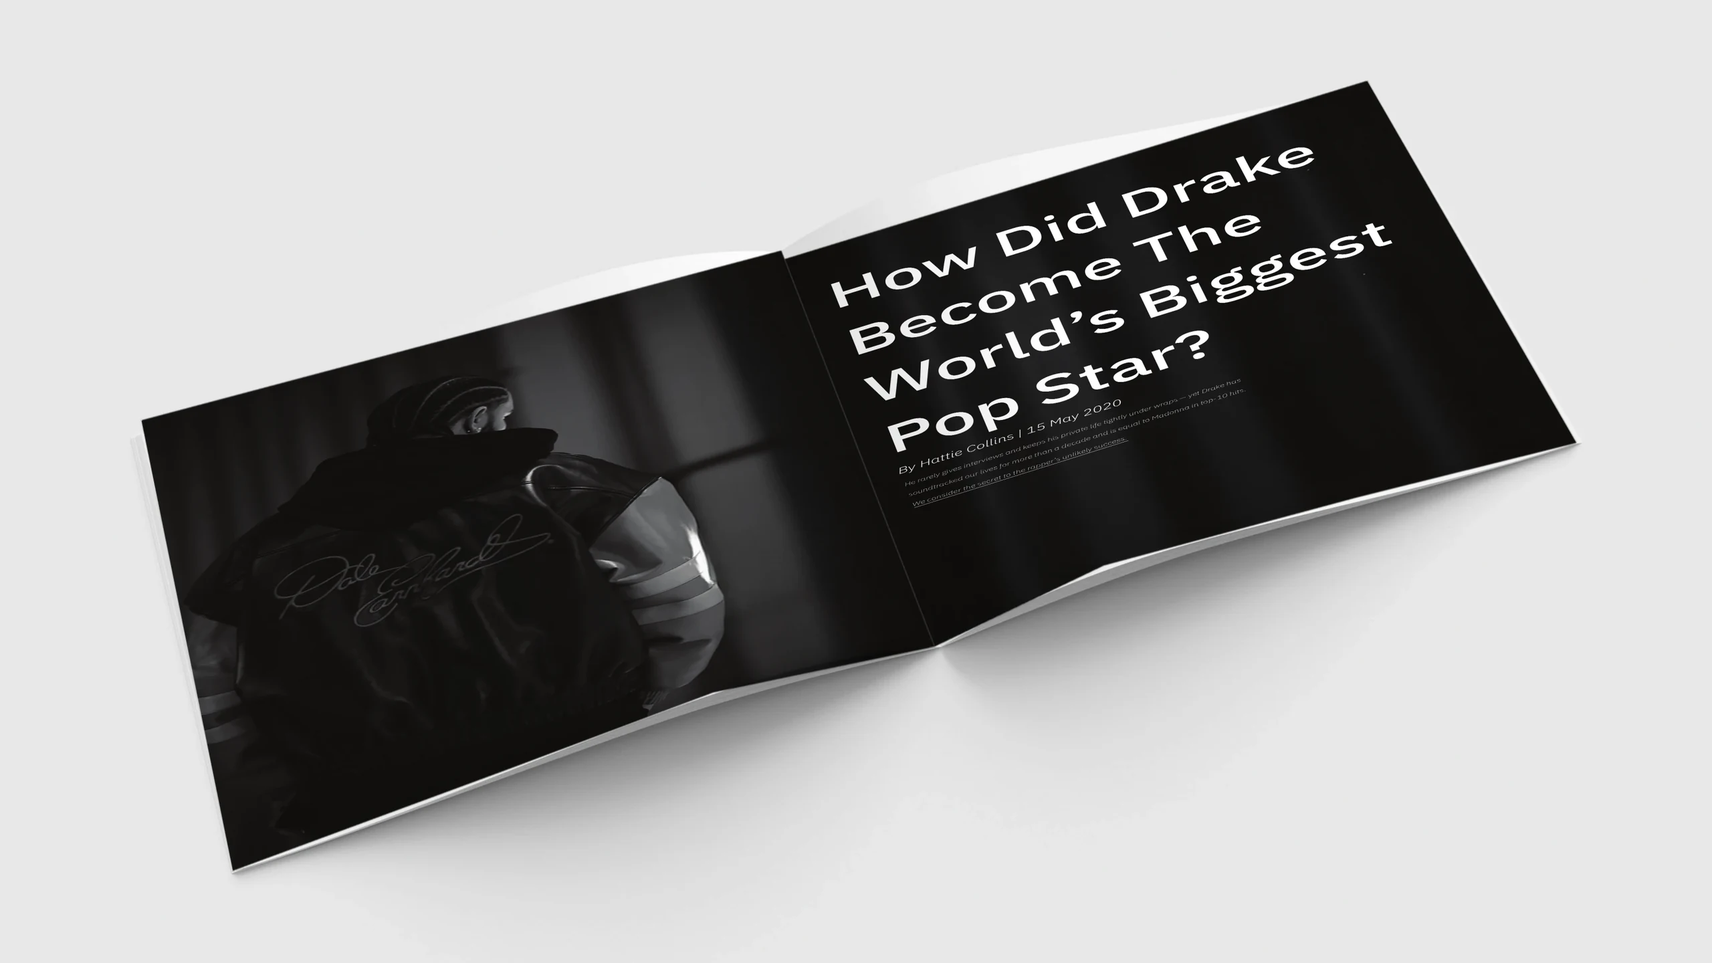
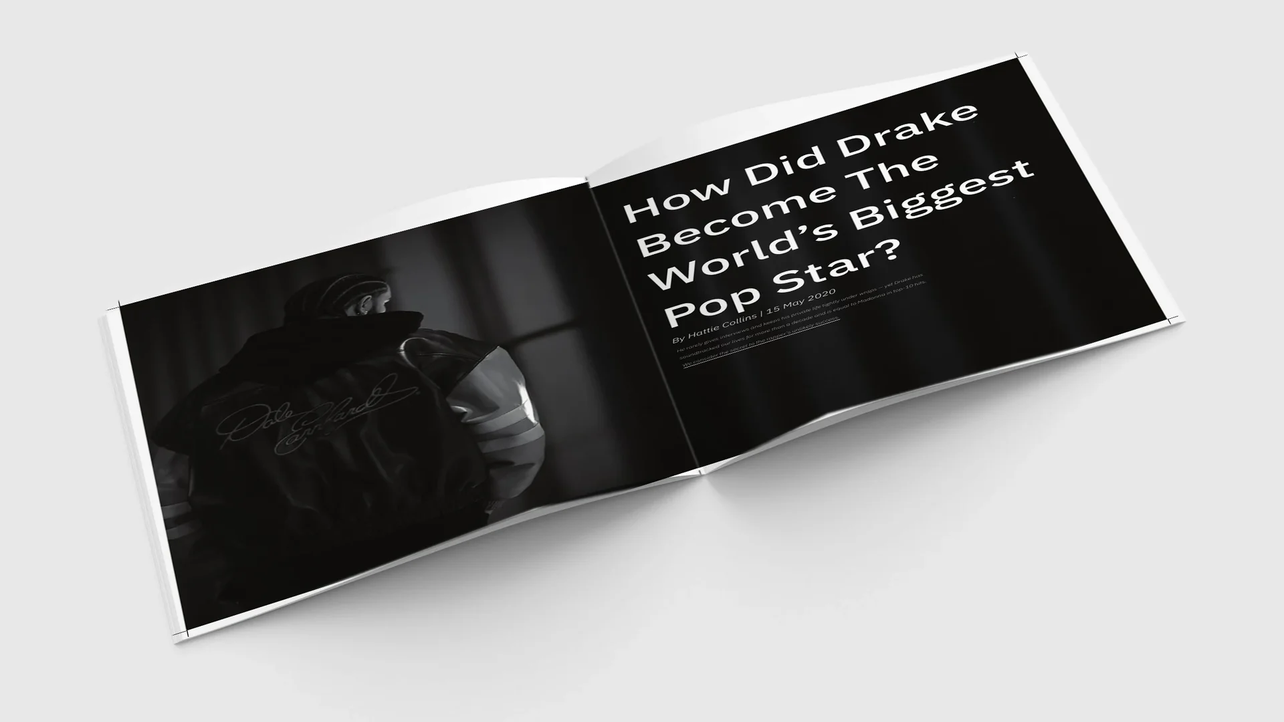
Revert "Rebuild real mockups at full res from the original files: true proportions, vinyl gets cover + picture disc, light flat side, drop low-res and code-drawn mockups"
This reverts commit f2d31cbca5edbf2e0125dacdb4d016c4d0a19e43.

diff --git a/index.html b/index.html
@@ -31,7 +31,7 @@
     <link href="https://fonts.googleapis.com/css2?family=Inter:wght@400;500;600&family=JetBrains+Mono&family=Poppins:wght@300;500;600&display=swap" rel="stylesheet">
 
     <!-- my stylesheet -->
-    <link rel="stylesheet" href="css/style.css?v=c1d5d587">
+    <link rel="stylesheet" href="css/style.css?v=1bd2935e">
     <script>
         try {
             var r = new URLSearchParams(location.search).get("reveal");
@@ -197,7 +197,7 @@
                         </div>
                     </a>
                     <a class="bento-card span-5 reveal" href="projects/boncafe.html" data-case data-cat="ux">
-                        <div class="thumb"><img src="images/boncafe/cover.jpg" alt="Three Boncafe app screens" loading="lazy"></div>
+                        <div class="thumb"><img src="images/real/boncafe-desk.webp" alt="Boncafe service booking screen on a phone" loading="lazy"></div>
                         <div class="body">
                             <div class="top"><h3>Boncaf&eacute;</h3></div>
                             <span class="label">Mobile app &middot; UI design</span>
@@ -335,12 +335,12 @@
                 </div>
 
                 <div class="gallery prints">
-                <button class="tile" data-cat="print" data-full="images/real/otuka-album.webp, images/real/otuka-poster.webp, images/real/otuka-vinyl.webp, images/real/otuka-vinyl-flat.webp, images/real/otuka-spotify.webp" data-desc="Album packaging where the type becomes the image, across four formats.">
-                    <div class="media"><img src="images/real/otuka-album.webp" alt="Open Your Eyes, Wrapped in Type" loading="lazy"><span class="badge">4 FORMATS</span></div>
+                <button class="tile" data-cat="print" data-full="images/real/otuka-album.webp, images/real/otuka-poster.webp, images/real/otuka-vinyl.webp, images/otuka/vinyl-flat-mockup.webp, images/real/otuka-spotify.webp" data-desc="Album packaging where the type becomes the image, across four formats.">
+                    <div class="media"><img src="images/otuka/album-art-mockup.webp" alt="Open Your Eyes, Wrapped in Type" loading="lazy"><span class="badge">4 FORMATS</span></div>
                     <div class="cap"><h3>Open Your Eyes, Wrapped in Type</h3><p>Album packaging where the type becomes the image, across four formats.</p></div>
                 </button>
-                <button class="tile" data-cat="print" data-full="images/real/drake-1.webp, images/real/drake-2.webp, images/real/drake-cover.webp" data-desc="Magazine feature and tabloid layout built in InDesign.">
-                    <div class="media"><img src="images/real/drake-cover.webp" alt="The Drake Issue" loading="lazy"></div>
+                <button class="tile" data-cat="print" data-full="images/real/drake-1.webp, images/real/drake-2.webp, images/gallery/drake-3-mockup.webp" data-desc="Magazine feature and tabloid layout built in InDesign.">
+                    <div class="media"><img src="images/gallery/drake-3-mockup.webp" alt="The Drake Issue" loading="lazy"></div>
                     <div class="cap"><h3>The Drake Issue</h3><p>Magazine feature and tabloid layout built in InDesign.</p></div>
                 </button>
                 <button class="tile" data-cat="print" data-full="images/aria/b-guidlines.jpg, images/aria/b-guidlines-2.jpg, images/aria/content-book.jpg, images/aria/logo-color-sys.jpg" data-desc="The printed rulebook for a team-built outdoor apparel identity.">
@@ -355,22 +355,22 @@
                     <div class="media"><img src="images/gallery/wendigo-thumb.jpg" alt="Wendigo" loading="lazy"></div>
                     <div class="cap"><h3>Wendigo</h3><p>A Photoshop composite: a hunter and two creatures in a forest at night, with the light, rain and colour matched across every piece.</p><span class="note">Photoshop composite</span></div>
                 </button>
-                <button class="tile" data-cat="print" data-full="images/real/nivea.webp, images/real/nivea-flat.webp" data-desc="A product ad built in Photoshop: the bottle, a splash and a light tube splitting the frame from the type.">
+                <button class="tile" data-cat="print" data-full="images/real/nivea.webp, images/gallery/nivea-mockup.webp" data-desc="A product ad built in Photoshop: the bottle, a splash and a light tube splitting the frame from the type.">
                     <div class="media"><img src="images/gallery/nivea-thumb.jpg" alt="NIVEA MEN, Power Fresh" loading="lazy"></div>
                     <div class="cap"><h3>NIVEA MEN, Power Fresh</h3><p>A product ad built in Photoshop: the bottle, a splash and a light tube splitting the frame from the type.</p><span class="note">Student concept</span></div>
                 </button>
-                <button class="tile" data-cat="print" data-full="images/real/seven-gen.webp, images/real/seven-gen-flat.webp" data-desc="Long-copy print ad: a houseplant growing out of a shipping box, built around the brand's seven-generations idea.">
-                    <div class="media"><img src="images/gallery/seven-gen.jpg" alt="Seven Generations" loading="lazy"></div>
+                <button class="tile" data-cat="print" data-full="images/real/seven-gen.webp, images/gallery/seven-gen-mockup.webp" data-desc="Long-copy print ad: a houseplant growing out of a shipping box, built around the brand's seven-generations idea.">
+                    <div class="media"><img src="images/gallery/seven-gen-mockup.webp" alt="Seven Generations" loading="lazy"></div>
                     <div class="cap"><h3>Seven Generations</h3><p>Long-copy print ad: a houseplant growing out of a shipping box, built around the brand's seven-generations idea.</p><span class="note">Student concept</span></div>
                 </button>
-                <button class="tile" data-cat="print" data-full="images/real/psa.webp, images/real/psa-flat.webp" data-desc="Public safety ad layout.">
+                <button class="tile" data-cat="print" data-full="images/real/psa.webp, images/gallery/psa-1-mockup.webp" data-desc="Public safety ad layout.">
                     <div class="media"><img src="images/gallery/psa-1.jpg" alt="One Careless Move" loading="lazy"></div>
                     <div class="cap"><h3>One Careless Move</h3><p>Public safety ad layout.</p><span class="note">Student concept</span></div>
                 </button>
                 </div>
 
                 <!-- flat file vs the same piece in a real photo (free unsplash mockups, credits in images/real/credits.txt).
-                     drag the handle, the tabs swap the piece. the flat side sits on light grey like a studio table -->
+                     drag the handle, the tabs swap the piece. the flat side follows night / day mode -->
                 <div class="in-world reveal">
                     <div class="in-world-head">
                         <p class="label">Flat file &rarr; in the world</p>
@@ -381,12 +381,15 @@
                             <button role="tab" aria-selected="false" data-scene="seven-gen">Seven Generations</button>
                             <button role="tab" aria-selected="false" data-scene="nivea">NIVEA</button>
                             <button role="tab" aria-selected="false" data-scene="psa">One Careless Move</button>
-                            <button role="tab" aria-selected="false" data-scene="eduvia-desk">Eduvia app</button>
+                            <button role="tab" aria-selected="false" data-scene="boncafe-desk">Boncaf&eacute; app</button>
                         </div>
                     </div>
                     <div class="compare scene-compare" data-folder="images/real/" aria-label="Otuka poster, flat file and at a bus stop">
                         <img class="scene-after" src="images/real/otuka-poster-wide.webp" alt="Otuka poster, flat file and at a bus stop" loading="lazy">
-                        <div class="before"><img class="scene-before" src="images/real/otuka-poster-flat.webp" alt="" loading="lazy"></div>
+                        <div class="before">
+                            <img class="m-dark" src="images/real/otuka-poster-flat-dark.webp" alt="" loading="lazy">
+                            <img class="m-light" src="images/real/otuka-poster-flat-light.webp" alt="" loading="lazy">
+                        </div>
                         <span class="compare-tag left">Flat file</span>
                         <span class="compare-tag right">In the world</span>
                         <div class="compare-handle" role="slider" tabindex="0" aria-label="Drag to compare" aria-valuemin="0" aria-valuemax="100" aria-valuenow="50"><span>&harr;</span></div>
@@ -547,7 +550,7 @@
         <p class="lb-hint"><span class="hint-mouse">drag, scroll or use the arrow keys</span><span class="hint-touch">swipe left or right for the next one</span></p>
     </div>
 
-    <script src="js/main.js?v=e37636cf"></script>
+    <script src="js/main.js?v=7d1211b8"></script>
     <script src="js/motion.js?v=e68d57a2"></script>
     <script src="js/egg.js?v=83845ed8"></script>
     <script src="js/reveal.js?v=a761e3d4"></script>

diff --git a/projects/otuka.html b/projects/otuka.html
@@ -30,7 +30,7 @@
     <link href="https://fonts.googleapis.com/css2?family=Inter:wght@400;500;600&family=JetBrains+Mono&family=Poppins:wght@300;500;600&display=swap" rel="stylesheet">
 
     <!-- my stylesheet -->
-    <link rel="stylesheet" href="../css/style.css?v=c1d5d587">
+    <link rel="stylesheet" href="../css/style.css?v=1bd2935e">
 </head>
 <body>
     <!-- Utility Bar -->
@@ -103,7 +103,7 @@
                 <figure class="reveal"><img src="../images/real/otuka-vinyl.webp" alt="Vinyl, sleeve and record" loading="lazy"><figcaption>Vinyl, sleeve and record</figcaption></figure>
             </div>
             <div class="shots ">
-                <figure class="reveal"><img src="../images/real/otuka-vinyl-flat.webp" alt="Vinyl jacket, front and back, flat" loading="lazy"><figcaption>Vinyl jacket, front and back, flat</figcaption></figure>
+                <figure class="reveal"><img src="../images/otuka/vinyl-flat-mockup.webp" alt="Vinyl jacket, front and back, flat" loading="lazy"><figcaption>Vinyl jacket, front and back, flat</figcaption></figure>
             </div>
         </section>
 
@@ -114,14 +114,20 @@
             </div>
             <div class="compare scene-compare" data-folder="../images/real/" aria-label="Otuka poster, flat file and at a bus stop">
                         <img class="scene-after" src="../images/real/otuka-poster-wide.webp" alt="Otuka poster, flat file and at a bus stop" loading="lazy">
-                        <div class="before"><img class="scene-before" src="../images/real/otuka-poster-flat.webp" alt="" loading="lazy"></div>
+                        <div class="before">
+                            <img class="m-dark" src="../images/real/otuka-poster-flat-dark.webp" alt="" loading="lazy">
+                            <img class="m-light" src="../images/real/otuka-poster-flat-light.webp" alt="" loading="lazy">
+                        </div>
                         <span class="compare-tag left">Flat file</span>
                         <span class="compare-tag right">In the world</span>
                         <div class="compare-handle" role="slider" tabindex="0" aria-label="Drag to compare" aria-valuemin="0" aria-valuemax="100" aria-valuenow="50"><span>&harr;</span></div>
                     </div>
             <div class="compare scene-compare" data-folder="../images/real/" aria-label="Otuka vinyl, flat file and in hand">
                         <img class="scene-after" src="../images/real/otuka-vinyl-wide.webp" alt="Otuka vinyl, flat file and in hand" loading="lazy">
-                        <div class="before"><img class="scene-before" src="../images/real/otuka-vinyl-flat.webp" alt="" loading="lazy"></div>
+                        <div class="before">
+                            <img class="m-dark" src="../images/real/otuka-vinyl-flat-dark.webp" alt="" loading="lazy">
+                            <img class="m-light" src="../images/real/otuka-vinyl-flat-light.webp" alt="" loading="lazy">
+                        </div>
                         <span class="compare-tag left">Flat file</span>
                         <span class="compare-tag right">In the world</span>
                         <div class="compare-handle" role="slider" tabindex="0" aria-label="Drag to compare" aria-valuemin="0" aria-valuemax="100" aria-valuenow="50"><span>&harr;</span></div>
@@ -145,7 +151,7 @@
         </div>
     </footer>
 
-    <script src="../js/main.js?v=e37636cf"></script>
+    <script src="../js/main.js?v=7d1211b8"></script>
     <script src="../js/motion.js?v=e68d57a2"></script>
 </body>
 </html>

diff --git a/more.html b/more.html
@@ -31,7 +31,7 @@
     <link href="https://fonts.googleapis.com/css2?family=Inter:wght@400;500;600&family=JetBrains+Mono&family=Poppins:wght@300;500;600&display=swap" rel="stylesheet">
 
     <!-- my stylesheet -->
-    <link rel="stylesheet" href="css/style.css?v=c1d5d587">
+    <link rel="stylesheet" href="css/style.css?v=1bd2935e">
 </head>
 <body>
     <div class="scroll-bar" aria-hidden="true"></div>
@@ -113,12 +113,12 @@
                     <div class="media"><img src="images/gallery/water-watch-1.jpg" alt="Water Watch" loading="lazy"><span class="badge">VIDEO</span></div>
                     <div class="cap"><h3>Water Watch</h3><p>App concept that helps people track and cut their water use, with a walkthrough video.</p></div>
                 </button>
-                <button class="tile" data-cat="ux" data-full="images/gallery/dairy-drop-1.jpg, images/gallery/dairy-drop-2.jpg" data-desc="Milk delivery app: speed sketches, A/B testing, lo-fi and mid-fi wireframes.">
-                    <div class="media"><img src="images/gallery/dairy-drop-1.jpg" alt="Dairy Drop" loading="lazy"></div>
+                <button class="tile" data-cat="ux" data-full="images/real/dairy-drop.webp, images/gallery/dairy-drop-1.jpg, images/gallery/dairy-drop-2.jpg" data-desc="Milk delivery app: speed sketches, A/B testing, lo-fi and mid-fi wireframes.">
+                    <div class="media"><img src="images/real/dairy-drop.webp" alt="Dairy Drop" loading="lazy"></div>
                     <div class="cap"><h3>Dairy Drop</h3><p>Milk delivery app: speed sketches, A/B testing, lo-fi and mid-fi wireframes.</p></div>
                 </button>
-                <button class="tile" data-cat="ux" data-full="images/real/eduvia-desk.webp, images/real/eduvia-stand.webp, images/gallery/eduvia-1.jpg, images/gallery/eduvia-2.jpg" data-desc="Student networking app: research, personas, empathy map and hi-fi mockups.">
-                    <div class="media"><img src="images/real/eduvia-desk.webp" alt="Eduvia" loading="lazy"></div>
+                <button class="tile" data-cat="ux" data-full="images/gallery/eduvia-1.jpg, images/gallery/eduvia-2.jpg" data-desc="Student networking app: research, personas, empathy map and hi-fi mockups.">
+                    <div class="media"><img src="images/gallery/eduvia-1.jpg" alt="Eduvia" loading="lazy"></div>
                     <div class="cap"><h3>Eduvia</h3><p>Student networking app: research, personas, empathy map and hi-fi mockups.</p><span class="note">Group project</span></div>
                 </button>
                 <button class="tile" data-cat="ux" data-full="images/gallery/clinic-1.jpg, images/gallery/clinic-2.jpg" data-desc="UX research sprint on how newcomers get language support at clinic visits.">
@@ -170,7 +170,7 @@
         <p class="lb-hint"><span class="hint-mouse">drag, scroll or use the arrow keys</span><span class="hint-touch">swipe left or right for the next one</span></p>
     </div>
 
-    <script src="js/main.js?v=e37636cf"></script>
+    <script src="js/main.js?v=7d1211b8"></script>
     <script src="js/motion.js?v=e68d57a2"></script>
 </body>
 </html>

diff --git a/projects/boncafe.html b/projects/boncafe.html
@@ -30,7 +30,7 @@
     <link href="https://fonts.googleapis.com/css2?family=Inter:wght@400;500;600&family=JetBrains+Mono&family=Poppins:wght@300;500;600&display=swap" rel="stylesheet">
 
     <!-- my stylesheet -->
-    <link rel="stylesheet" href="../css/style.css?v=c1d5d587">
+    <link rel="stylesheet" href="../css/style.css?v=1bd2935e">
 </head>
 <body>
     <!-- Utility Bar -->
@@ -78,7 +78,7 @@
                 <div><span class="label">When</span>2023 &ndash; 2024</div>
             </div>
         </section>
-        <div class="case-cover reveal"><img src="../images/boncafe/cover.jpg" alt="Three Boncafé app screens"></div>
+        <div class="case-cover reveal"><img src="../images/real/boncafe-stand.webp" alt="Boncafé welcome screen on a phone"></div>
 
         <section class="case-block">
             <div class="text reveal">
@@ -100,6 +100,23 @@
                 <img src="../images/boncafe/10-service-booking.jpg" alt="Service booking form" loading="lazy">
         </div>
         <p class="label" style="margin-top:.5rem">Swipe &rarr; Onboarding, login, home and booking</p>
+
+        <section class="case-block">
+            <div class="text reveal">
+                <h2>On a real phone</h2>
+                <div><p>The screens only make sense in someone's hand, so here they are on an actual phone. Drag the handle to go from the flat Figma frame to the phone.</p></div>
+            </div>
+            <div class="compare scene-compare" data-folder="../images/real/" aria-label="Boncafé booking screen, flat and on a phone">
+                        <img class="scene-after" src="../images/real/boncafe-desk-wide.webp" alt="Boncafé booking screen, flat and on a phone" loading="lazy">
+                        <div class="before">
+                            <img class="m-dark" src="../images/real/boncafe-desk-flat-dark.webp" alt="" loading="lazy">
+                            <img class="m-light" src="../images/real/boncafe-desk-flat-light.webp" alt="" loading="lazy">
+                        </div>
+                        <span class="compare-tag left">Flat file</span>
+                        <span class="compare-tag right">In the world</span>
+                        <div class="compare-handle" role="slider" tabindex="0" aria-label="Drag to compare" aria-valuemin="0" aria-valuemax="100" aria-valuenow="50"><span>&harr;</span></div>
+                    </div>
+        </section>
 
         <section class="case-block">
             <div class="text reveal">
@@ -133,7 +150,7 @@
         </div>
     </footer>
 
-    <script src="../js/main.js?v=e37636cf"></script>
+    <script src="../js/main.js?v=7d1211b8"></script>
     <script src="../js/motion.js?v=e68d57a2"></script>
 </body>
 </html>

diff --git a/js/main.js b/js/main.js
@@ -749,12 +749,12 @@ if ("IntersectionObserver" in window) {
 // ---------- flat file vs in the world ----------
 
 // the tabs swap which piece is in the slider. each piece has 3 files in images/real/:
-// <name>-wide (the real photo) and <name>-flat (the flat file on light grey)
+// <name>-wide (the real photo) and <name>-flat-dark / -flat-light (the flat file for night / day mode)
 $$(".scene-tabs").forEach(tabs => {
     const box = tabs.closest(".in-world").querySelector(".scene-compare");
     const folder = box.dataset.folder;
     const after = $(".scene-after", box);
-    const before = $(".scene-before", box);
+    const before = $$(".before img", box);
 
     tabs.addEventListener("click", e => {
         const btn = e.target.closest("button");
@@ -765,7 +765,8 @@ $$(".scene-tabs").forEach(tabs => {
         setTimeout(() => {
             after.src = `${folder}${name}-wide.webp`;
             after.alt = `${btn.textContent}, flat file and in the world`;
-            before.src = `${folder}${name}-flat.webp`;
+            before[0].src = `${folder}${name}-flat-dark.webp`;
+            before[1].src = `${folder}${name}-flat-light.webp`;
             // fade back in once the photo has loaded
             if (after.complete) box.classList.remove("swapping");
             else after.addEventListener("load", () => box.classList.remove("swapping"), { once: true });

diff --git a/css/style.css b/css/style.css
@@ -1944,7 +1944,23 @@ kbd {
     transform: none;
 }
 
+/* mockups are see-through pngs/webps with only their shadows drawn,
+   so this backdrop (built from the theme colours) is the wall behind them.
+   it follows day / night mode and whatever the theme studio is set to */
+img[src*="-mockup."] {
+    background: radial-gradient(ellipse at 50% 42%, var(--bg-surface), var(--bg-elevated));
+}
+
+[data-mode="dark"] img[src*="-mockup."] {
+    background: radial-gradient(ellipse at 50% 42%, color-mix(in srgb, var(--bg-surface) 80%, var(--text-primary) 8%), var(--bg-canvas));
+}
+
 /* ---------- flat file vs in the world ---------- */
+/* night / day pairs: only the one that matches the site's mode shows */
+.m-light { display: none; }
+[data-mode="light"] .m-light { display: block; }
+[data-mode="light"] .m-dark { display: none; }
+
 .in-world {
     margin-top: 3rem;
 }

diff --git a/projects/aria.html b/projects/aria.html
@@ -30,7 +30,7 @@
     <link href="https://fonts.googleapis.com/css2?family=Inter:wght@400;500;600&family=JetBrains+Mono&family=Poppins:wght@300;500;600&display=swap" rel="stylesheet">
 
     <!-- my stylesheet -->
-    <link rel="stylesheet" href="../css/style.css?v=c1d5d587">
+    <link rel="stylesheet" href="../css/style.css?v=1bd2935e">
 </head>
 <body>
     <!-- Utility Bar -->
@@ -170,7 +170,7 @@
         </div>
     </footer>
 
-    <script src="../js/main.js?v=e37636cf"></script>
+    <script src="../js/main.js?v=7d1211b8"></script>
     <script src="../js/motion.js?v=e68d57a2"></script>
 </body>
 </html>

diff --git a/projects/compositing.html b/projects/compositing.html
@@ -30,7 +30,7 @@
     <link href="https://fonts.googleapis.com/css2?family=Inter:wght@400;500;600&family=JetBrains+Mono&family=Poppins:wght@300;500;600&display=swap" rel="stylesheet">
 
     <!-- my stylesheet -->
-    <link rel="stylesheet" href="../css/style.css?v=c1d5d587">
+    <link rel="stylesheet" href="../css/style.css?v=1bd2935e">
 </head>
 <body>
     <!-- Utility Bar -->
@@ -125,7 +125,7 @@
         </div>
     </footer>
 
-    <script src="../js/main.js?v=e37636cf"></script>
+    <script src="../js/main.js?v=7d1211b8"></script>
     <script src="../js/motion.js?v=e68d57a2"></script>
 </body>
 </html>

diff --git a/projects/five-senses.html b/projects/five-senses.html
@@ -30,7 +30,7 @@
     <link href="https://fonts.googleapis.com/css2?family=Inter:wght@400;500;600&family=JetBrains+Mono&family=Poppins:wght@300;500;600&display=swap" rel="stylesheet">
 
     <!-- my stylesheet -->
-    <link rel="stylesheet" href="../css/style.css?v=c1d5d587">
+    <link rel="stylesheet" href="../css/style.css?v=1bd2935e">
 </head>
 <body>
     <!-- Utility Bar -->
@@ -119,7 +119,7 @@
         </div>
     </footer>
 
-    <script src="../js/main.js?v=e37636cf"></script>
+    <script src="../js/main.js?v=7d1211b8"></script>
     <script src="../js/motion.js?v=e68d57a2"></script>
 </body>
 </html>

diff --git a/projects/hoddle.html b/projects/hoddle.html
@@ -30,7 +30,7 @@
     <link href="https://fonts.googleapis.com/css2?family=Inter:wght@400;500;600&family=JetBrains+Mono&family=Poppins:wght@300;500;600&display=swap" rel="stylesheet">
 
     <!-- my stylesheet -->
-    <link rel="stylesheet" href="../css/style.css?v=c1d5d587">
+    <link rel="stylesheet" href="../css/style.css?v=1bd2935e">
 </head>
 <body>
     <!-- Utility Bar -->
@@ -159,7 +159,7 @@
         </div>
     </footer>
 
-    <script src="../js/main.js?v=e37636cf"></script>
+    <script src="../js/main.js?v=7d1211b8"></script>
     <script src="../js/motion.js?v=e68d57a2"></script>
 </body>
 </html>

diff --git a/projects/nil.html b/projects/nil.html
@@ -30,7 +30,7 @@
     <link href="https://fonts.googleapis.com/css2?family=Inter:wght@400;500;600&family=JetBrains+Mono&family=Poppins:wght@300;500;600&display=swap" rel="stylesheet">
 
     <!-- my stylesheet -->
-    <link rel="stylesheet" href="../css/style.css?v=c1d5d587">
+    <link rel="stylesheet" href="../css/style.css?v=1bd2935e">
 </head>
 <body>
     <!-- Utility Bar -->
@@ -130,7 +130,7 @@
         </div>
     </footer>
 
-    <script src="../js/main.js?v=e37636cf"></script>
+    <script src="../js/main.js?v=7d1211b8"></script>
     <script src="../js/motion.js?v=e68d57a2"></script>
 </body>
 </html>

diff --git a/README.md b/README.md
@@ -14,7 +14,7 @@ My design portfolio. Hand-coded in plain HTML, CSS and JavaScript (no frameworks
 
 - **Night mode by default** - the sun / moon in the header flips to day mode
 - **Theme Studio** - floating button bottom right (slides away on phones while you scroll down). 7 presets (my two + 5 curated), live colour pickers for canvas / surface / text / accent, auto black-or-white button text from WCAG luminance, saves to localStorage
-- **Mockups** - `tools/mockups.py` makes the see-through studio mockups. `tools/photomock2.py` + `tools/realmocks2.py` put the print pieces and app screens (from the original high-res PDFs and exports) into full-res blank mockup photos (free Unsplash photos, credits in `images/real/credits.txt`), keeping the photo's light, folds and fingers
+- **Mockups** - `tools/mockups.py` makes the see-through studio mockups. `tools/photomock.py` + `tools/realmocks.py` put the print pieces and app screens into real blank mockup photos (free Unsplash photos, credits in `images/real/credits.txt`), keeping the photo's light, folds and fingers
 - **Flat file → in the world** - before / after slider under Print (and on the Otuka and Boncafé pages), tabs swap the piece
 - **Case study drawer** - clicking a project slides it in over the page (it fetches the real page in `projects/`, so every case study still has its own shareable URL)
 - **Before / after sliders** - drag (mouse or touch) or use the arrow keys. The two videos stay synced
